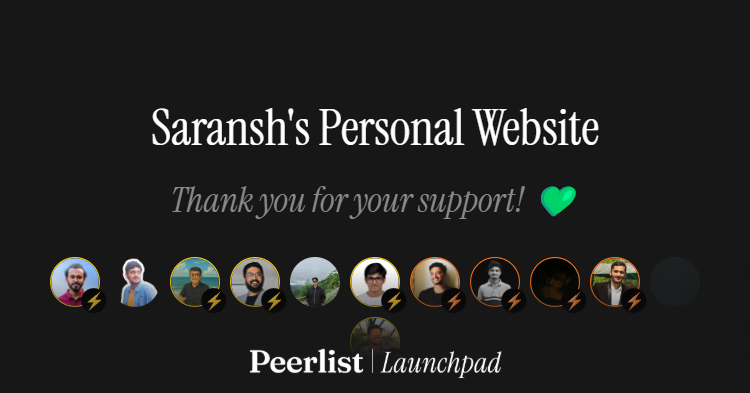
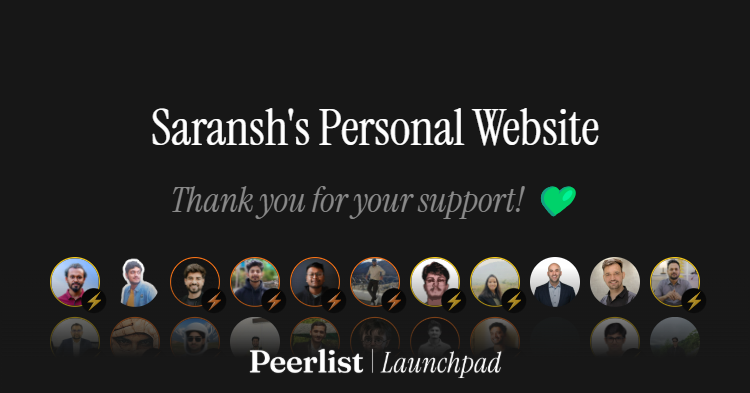
Added peerlist link instead of image

Changed region(s): [[0.0613, 0.6412, 0.9507, 0.8855]]

diff --git a/src/components/navbar.tsx b/src/components/navbar.tsx
@@ -1,6 +1,5 @@
 "use client";
-import React from "react";
-import { ConfettiButton } from "./ui/confetti";
+import React, { useState } from "react";
 import { Button } from "./ui/button";
 import { FileUser, Github, Linkedin, Mail, Moon, Sun, Bird, Codepen } from "lucide-react";
 import { useTheme } from "next-themes";
@@ -9,9 +8,11 @@ import { Tooltip, TooltipContent, TooltipProvider, TooltipTrigger } from "@/comp
 import { useGSAP } from "@gsap/react";
 import gsap from "gsap";
 import Image from "next/image";
+import { LinkPreview } from "./ui/link-preview";
 
 const NavBar = () => {
   const { theme, setTheme } = useTheme();
+  const [showUpvote, setShowUpvote] = useState(false);
 
   const socialLinks = [
     {
@@ -48,37 +49,26 @@ const NavBar = () => {
 
   return (
     <header className="container mx-auto z-[60] px-4 py-4 flex justify-between items-center bg-white dark:bg-black">
-      <ConfettiButton
-        options={{
-          get angle() {
-            return 270 + Math.random() * 90;
-          },
-        }}
-      >
-        <TooltipProvider openDelay={100}>
-          <Tooltip side="bottom" sideOffset={8} align="center">
-            <TooltipTrigger>
-              <a href="https://peerlist.io/saransh_bangar/project/saranshs-personal-website" target="_blank" rel="noreferrer">
-                <Image
-                  src={`/peerlist/peerlist-launchpad-${theme === "dark" ? "dark" : "light"}.svg`}
-                  alt="Saransh's Personal Website"
-                  width={180}
-                  height={50}
-                />
-              </a>
-            </TooltipTrigger>
-            <TooltipContent>
-              <Image
-                src={`/peerlist/peerlist-supporter-${theme === "dark" ? "dark" : "light"}.png`}
-                alt="Peerlist Supporter"
-                width={100}
-                height={100}
-                className="w-48 object-contain"
-              />
-            </TooltipContent>
-          </Tooltip>
-        </TooltipProvider>
-      </ConfettiButton>
+      <LinkPreview url="https://peerlist.io/saransh_bangar/project/saranshs-personal-website">
+        <a
+          href="https://peerlist.io/saransh_bangar/project/saranshs-personal-website"
+          target="_blank"
+          rel="noreferrer"
+          className="transition-all duration-300 ease-in-out"
+          onMouseEnter={() => setShowUpvote(true)}
+          onMouseLeave={() => setShowUpvote(false)}
+        >
+          <Image
+            src={`https://peerlist.io/api/v1/projects/embed/PRJHBARD8OJ96EPMA3EAAE998RKEDQ?showUpvote=${showUpvote}&theme=${
+              theme === "dark" ? "dark" : "light"
+            }`}
+            alt="Saransh's Personal Website"
+            width={showUpvote ? 218 : 180}
+            height={showUpvote ? 50 : 50}
+          />
+        </a>
+      </LinkPreview>
+
       <div className="flex items-center space-x-4">
         <TooltipProvider openDelay={300} closeDelay={150} transition={{ type: "spring", stiffness: 300, damping: 25 }}>
           {socialLinks.map((link, index) => (
